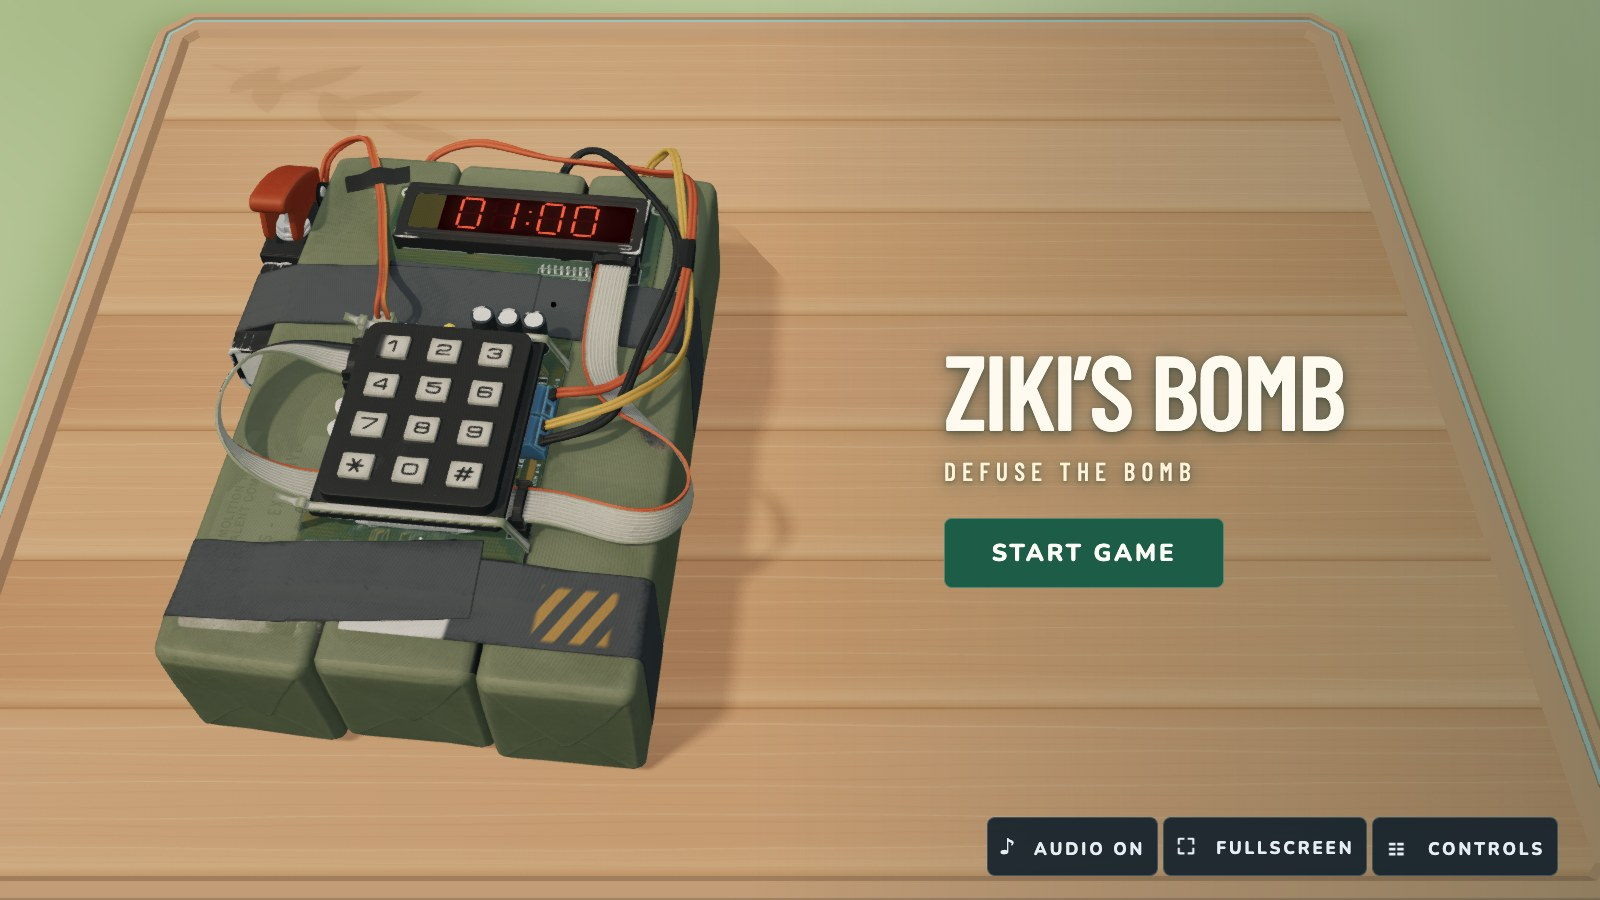
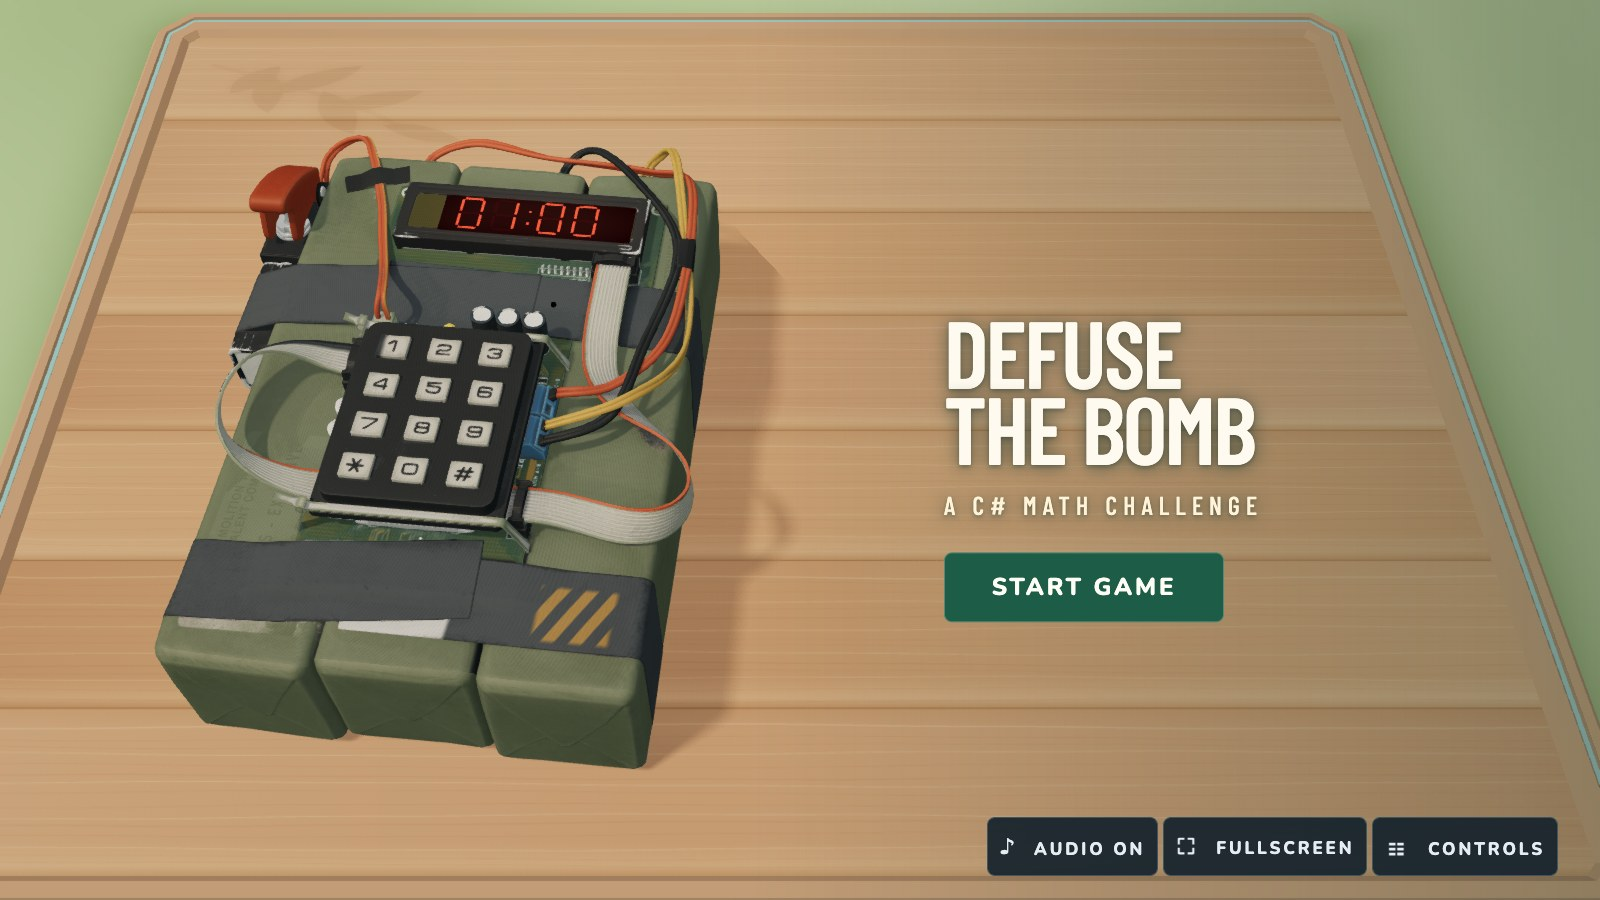
Rename the game to Defuse the Bomb

Changed region(s): [[0.5625, 0.3422, 0.8438, 0.7156]]

diff --git a/index.html b/index.html
@@ -1,8 +1,8 @@
-<!doctype html><html lang="en"><head><meta charset="UTF-8"><meta name="viewport" content="width=device-width,initial-scale=1"><link rel="icon" href="/favicon.svg"><meta name="theme-color" content="#17242d"><meta name="description" content="ZIKI’S BOMB — defuse the bomb by solving a C# coding challenge."><title>ZIKI’S BOMB — DEFUSE THE BOMB</title></head><body class="projector">
+<!doctype html><html lang="en"><head><meta charset="UTF-8"><meta name="viewport" content="width=device-width,initial-scale=1"><link rel="icon" href="/favicon.svg"><meta name="theme-color" content="#17242d"><meta name="description" content="A classroom C# Math game. Solve the expression before the countdown ends."><title>Defuse the Bomb</title></head><body class="projector">
 <canvas id="scene" aria-label="Countdown device on a garden bench"></canvas><div class="scene-shade"></div>
 <main>
-<section id="loading" class="cover"><div class="eyebrow">ZIKI’S BOMB // INITIALIZING</div><div class="loading-line"></div><p id="load-message">PREPARING DEVICE</p><button id="retry" hidden>RETRY CONNECTION</button></section>
-<section id="ready" class="title-card" hidden><h1>ZIKI’S BOMB</h1><div class="subtitle">DEFUSE THE BOMB</div><button id="start" class="primary">START GAME</button><p id="audio-error" role="status" hidden></p><button id="muted-start" hidden>CONTINUE MUTED</button></section>
+<section id="loading" class="cover"><div class="eyebrow">DEFUSE THE BOMB // INITIALIZING</div><div class="loading-line"></div><p id="load-message">PREPARING DEVICE</p><button id="retry" hidden>RETRY CONNECTION</button></section>
+<section id="ready" class="title-card" hidden><h1>DEFUSE THE BOMB</h1><div class="subtitle">A C# MATH CHALLENGE</div><button id="start" class="primary">START GAME</button><p id="audio-error" role="status" hidden></p><button id="muted-start" hidden>CONTINUE MUTED</button></section>
 <section id="hud" aria-label="Defusal challenge" hidden><div id="device-status" class="armed"><span class="dot"></span> DEVICE ARMED</div><div class="rule"></div><h2>WHAT WILL THIS C# CODE PRINT?</h2><pre class="code-strip"><code id="challenge-code"></code></pre><label class="answer-label" for="answer">CODE OUTPUT: <span class="answer-entry"><input id="answer" type="text" inputmode="decimal" autocomplete="off" autocapitalize="off" spellcheck="false" maxlength="8" aria-label="Defusal code" placeholder=" "><span class="blinking-underscore" aria-hidden="true">_</span></span></label><div id="feedback" role="status" aria-live="polite"></div><span id="accessible-timer" class="sr-only"></span></section>
 <section id="success" class="outcome success-card" hidden><div class="eyebrow">PROTOCOL COMPLETE</div><h2>DEVICE<br>DEFUSED<span>.</span></h2><p>Signal accepted. Clock stopped.</p><div class="actions"><button data-action="rematch" class="primary">RESTART GAME</button><button data-action="title">END GAME</button></div></section>
 </main>

diff --git a/src/style.css b/src/style.css
@@ -90,7 +90,7 @@ button{font-size:20px;padding:16px 24px}
   color: #fffaf0;
   text-shadow: 0 2px 18px #233a31a0, 0 2px 4px #233a3166;
 }
-.title-card h1 { font-size: clamp(63px, 6.6vw, 135px); }
+.title-card h1 { font-size: clamp(55px, 5.9vw, 115px); text-wrap: balance; }
 .title-card .subtitle { color: #fff4d9; }
 button, #teacher-menu label, .menu-top .eyebrow { font-family: Nunito, sans-serif; font-weight: 800; }
 button { border-radius: 8px; }

diff --git a/src/main.ts b/src/main.ts
@@ -78,7 +78,7 @@ function revealPuzzle(puzzle: Puzzle) {
   const card = $('reveal-card');
   if (card.childElementCount) return;
   card.innerHTML = [
-    '<div class="eyebrow">ZIKI’S BOMB // DEBRIEF</div>',
+    '<div class="eyebrow">DEFUSE THE BOMB // DEBRIEF</div>',
     '<pre class="solution-code"><code id="reveal-code"></code></pre>',
     '<h2 id="reveal-output"></h2>',
     '<p class="reveal-prompt">WHY?</p>',

diff --git a/README.md b/README.md
@@ -1,6 +1,6 @@
 <div align="center">
 
-# ZIKI’S BOMB
+# Defuse the Bomb
 
 **One minute. One C# expression. Defuse the device.**
 
@@ -8,7 +8,7 @@ A Grade 10 classroom coding challenge adapted from C# Bomb (revision `b502932c41
 
 </div>
 
-![ZIKI’S BOMB title screen with the 3D device on a garden bench](docs/images/title.jpg)
+![Defuse the Bomb title screen with the 3D device on a garden bench](docs/images/title.jpg)
 
 <p align="center">
   <a href="docs/images/gameplay.jpg"><img src="docs/images/gameplay.jpg" width="48%" alt="A timed C# Math puzzle beside the red countdown"></a>
